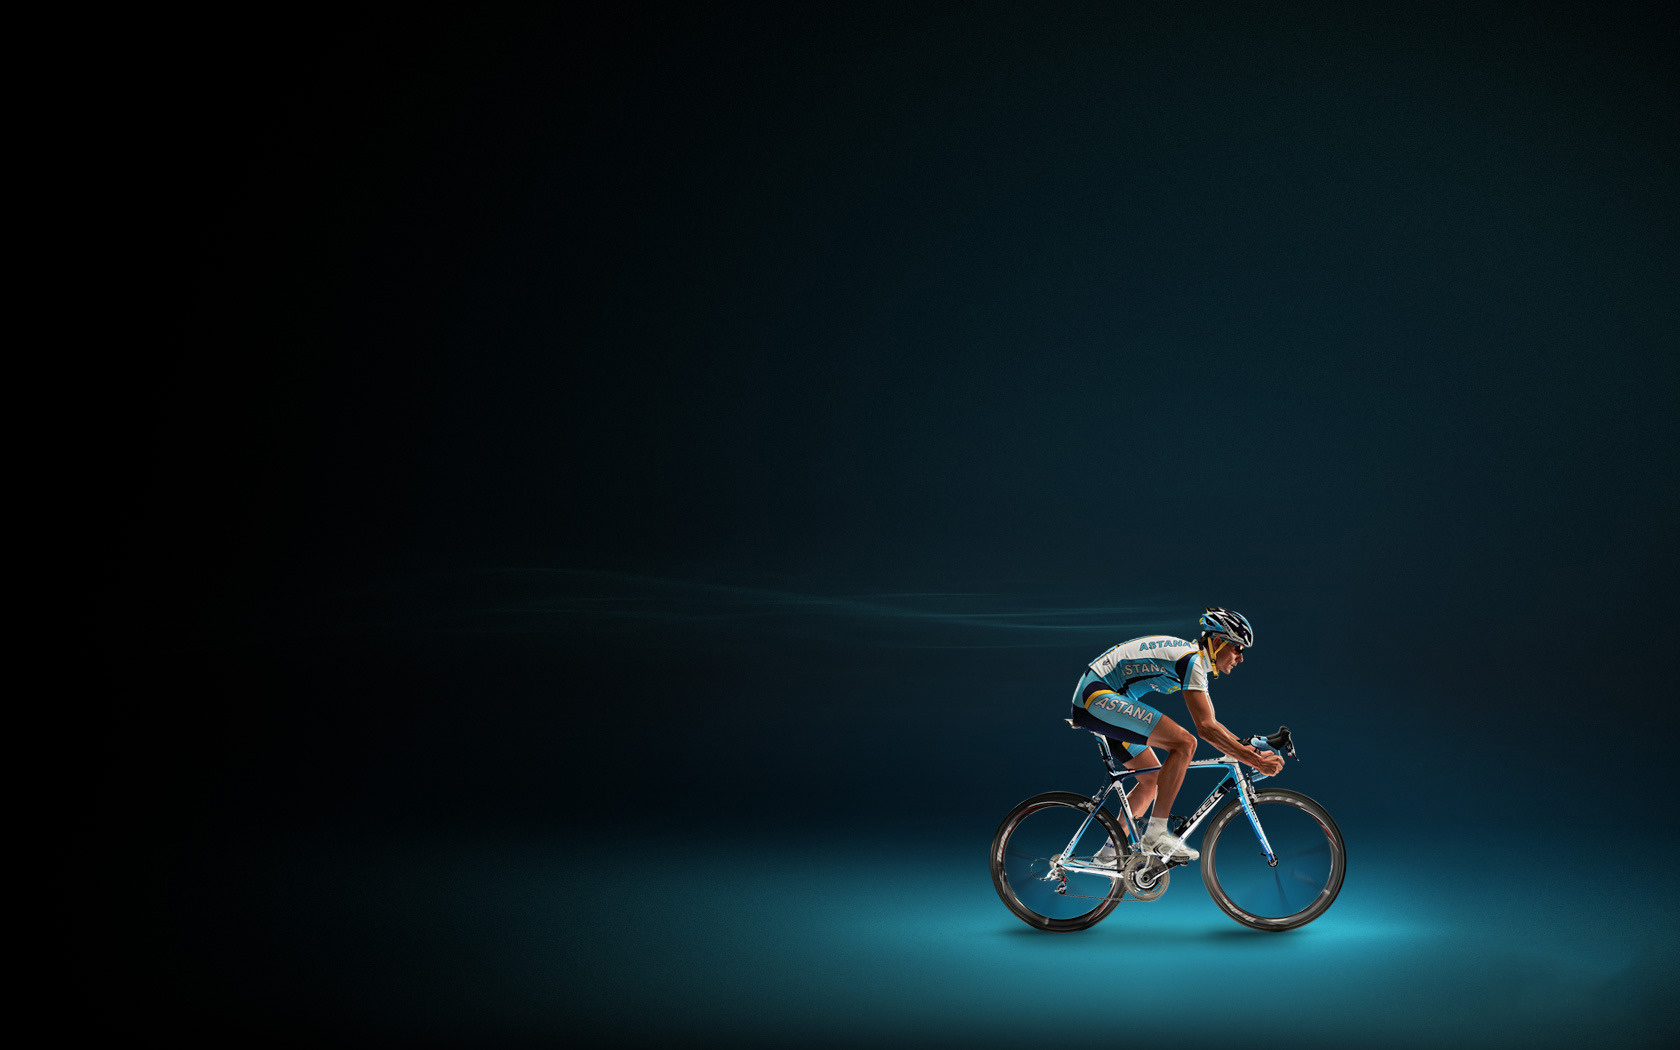
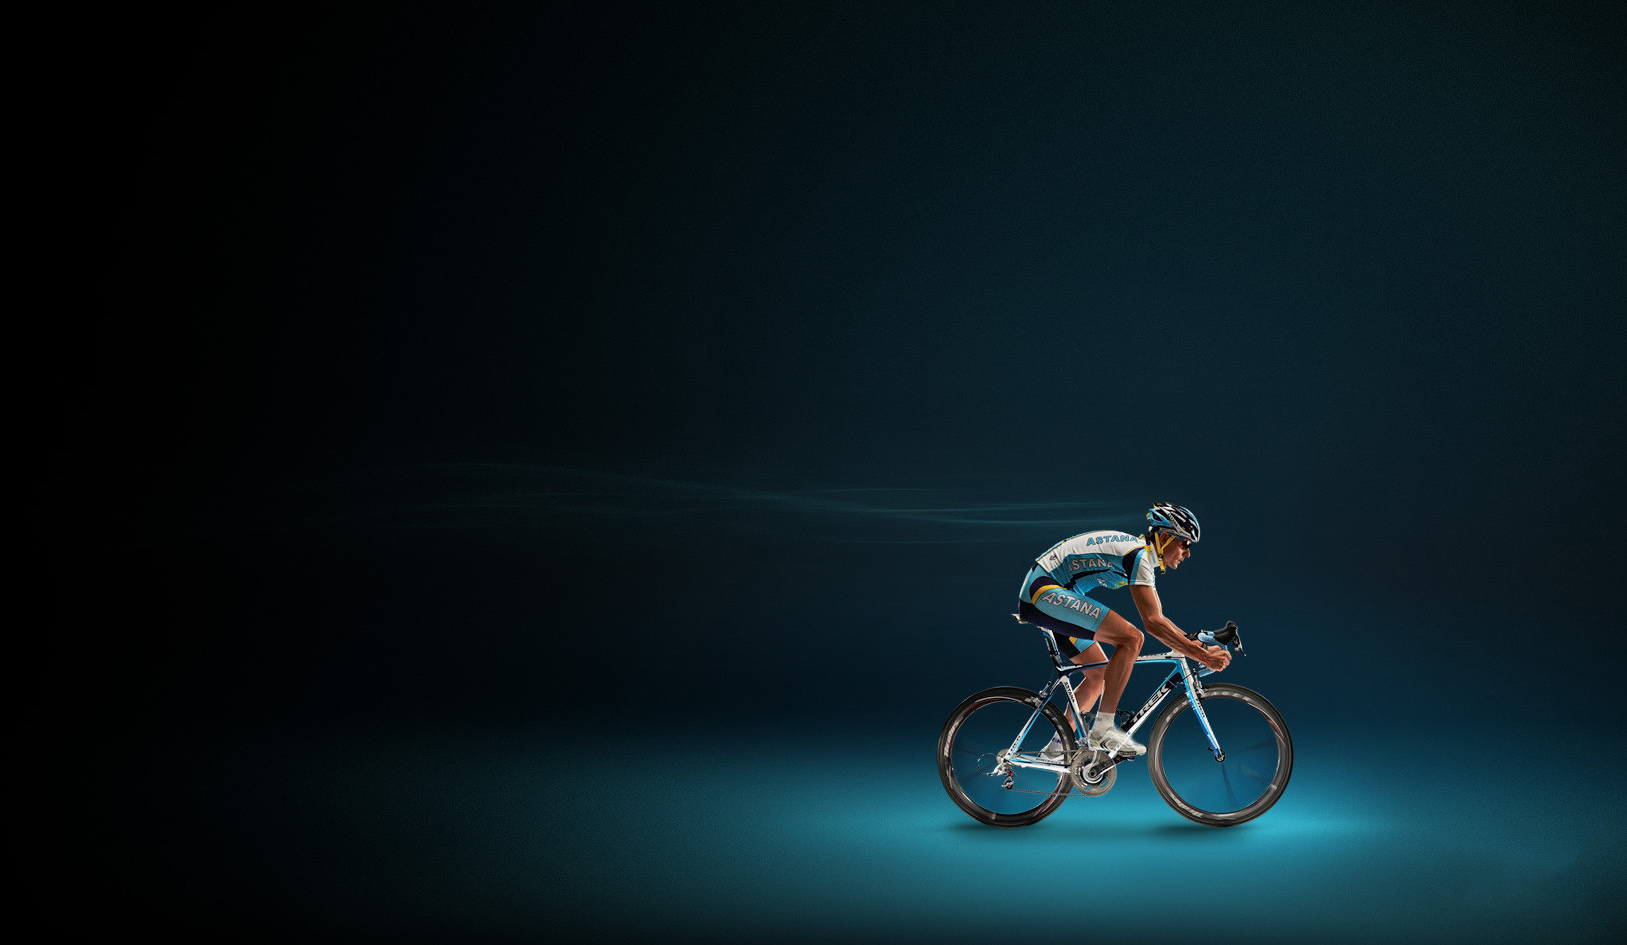
MàJ

Changed region(s): [[0.461, 0.5217, 0.8297, 0.9206]]

diff --git a/Site/vue/Inscription.css b/Site/vue/Inscription.css
@@ -9,7 +9,6 @@
 body {
     font-family: Helvetica;
     background-image: url("../Images/Wallpaper/cycling.jpg");
-    background-size: cover;
 }
 
 .Inscription {

diff --git a/Site/vue/Connexion.css b/Site/vue/Connexion.css
@@ -9,7 +9,6 @@
 html {
     font-family: Helvetica;
     background-image: url("../Images/Wallpaper/cycling.jpg");
-    background-size: cover;
 }
 
 .Connexion {
